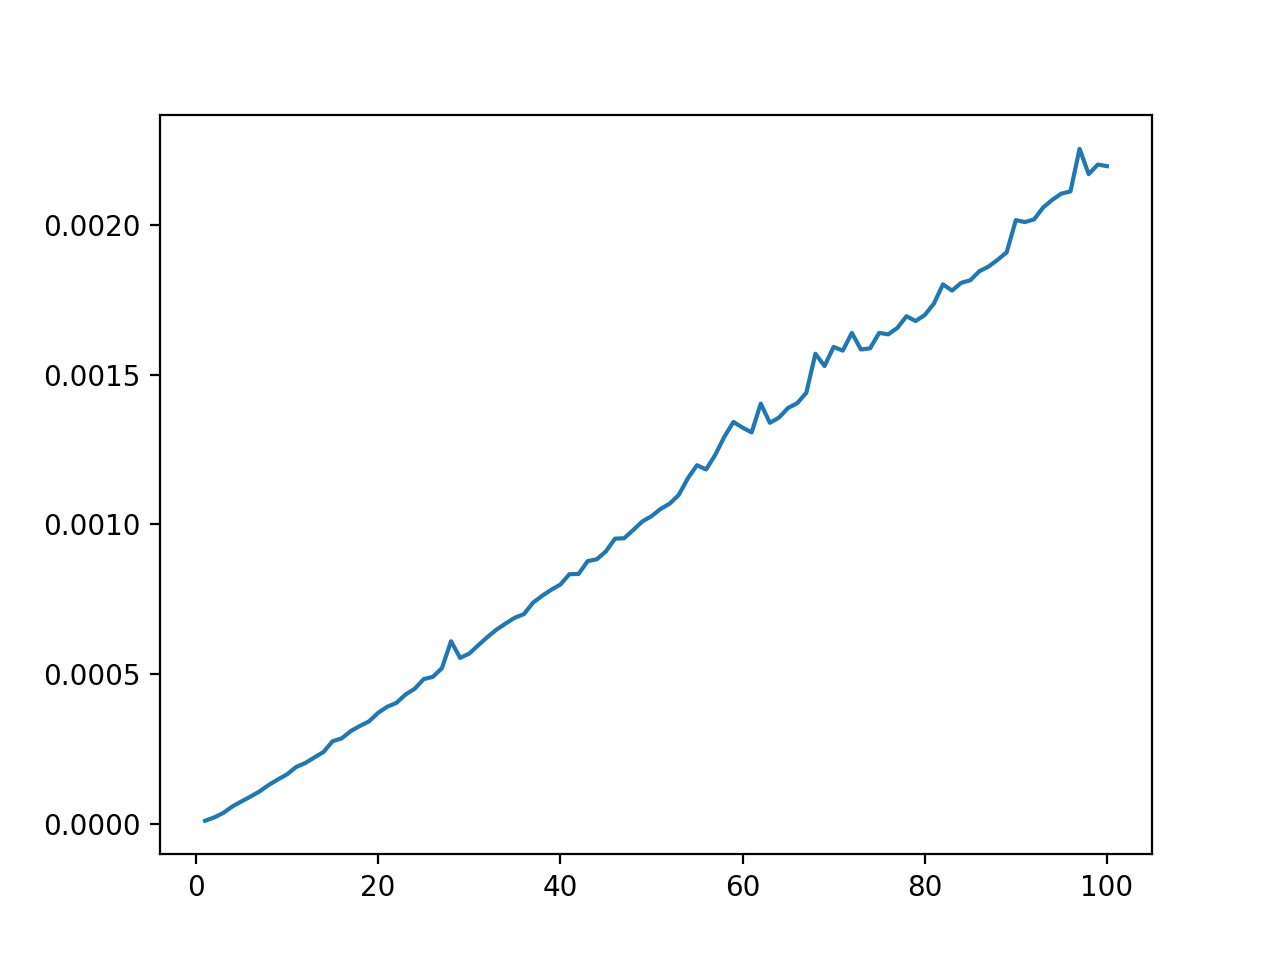
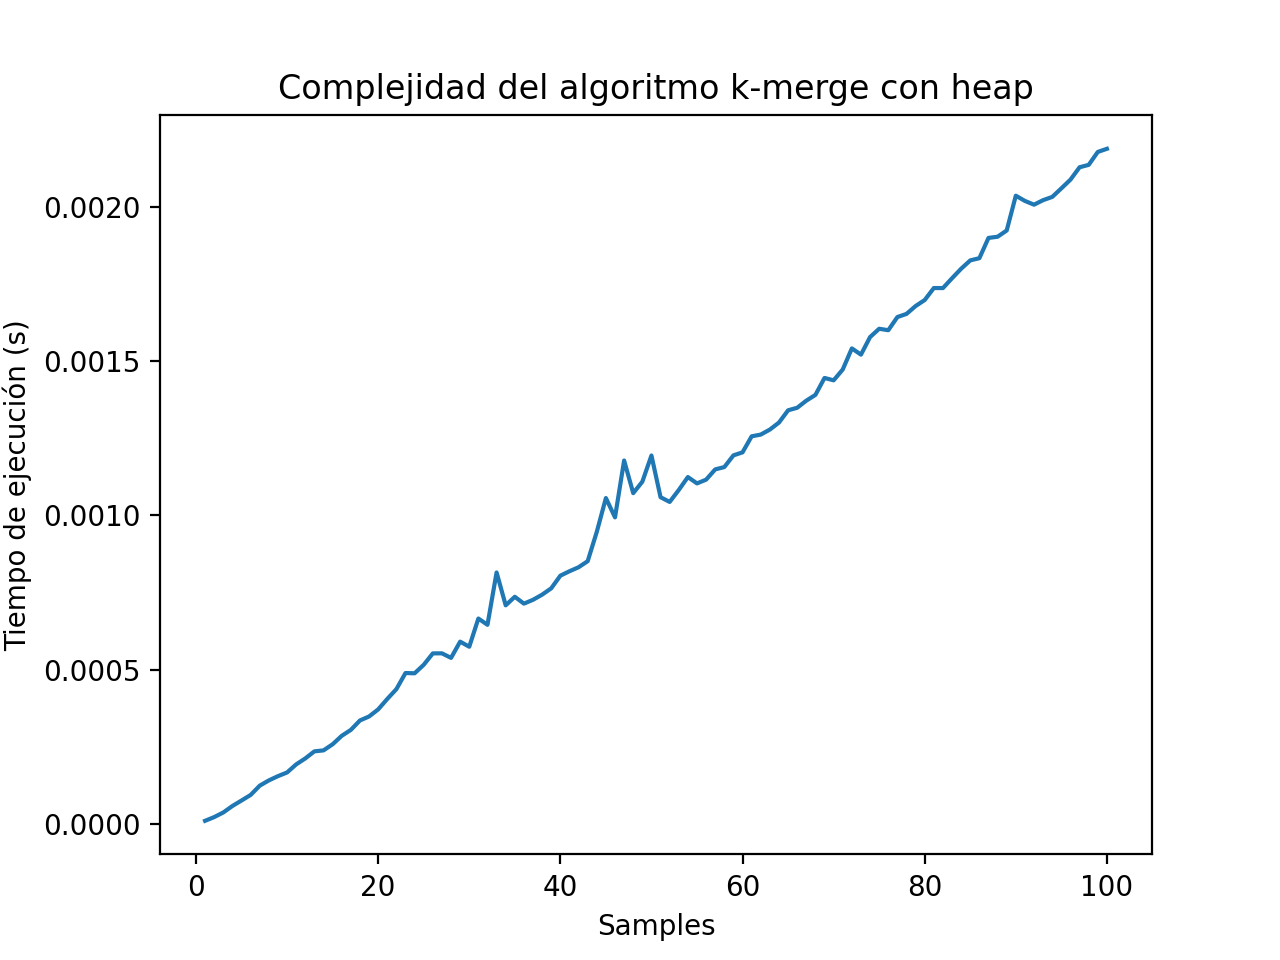
Add titled plots

diff --git a/complexity-check.py b/complexity-check.py
@@ -51,5 +51,5 @@ def plot_execution_time_mean(f, title):
     plt.show()
 
 
-plot_execution_time_mean(k_merge_dc, "Complejidad del algoritmo k-merge con D&C")
+#plot_execution_time_mean(k_merge_dc, "Complejidad del algoritmo k-merge con D&C")
 plot_execution_time_mean(k_merge_heap, "Complejidad del algoritmo k-merge con heap")
